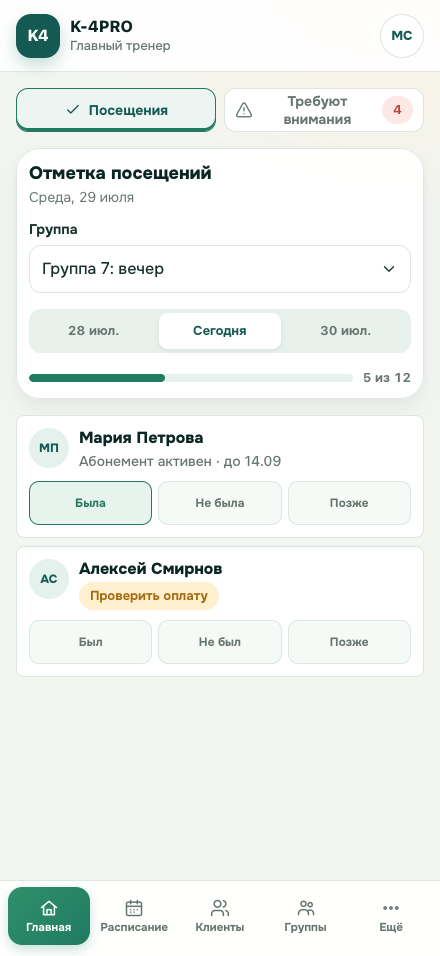
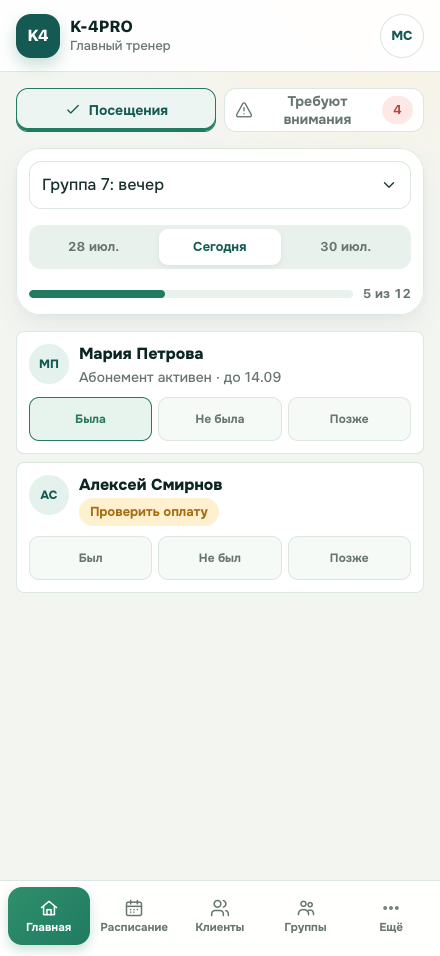
уточнение макетов

diff --git a/docs/ui-concept/task-090-iphone-17-pro-max/app.js b/docs/ui-concept/task-090-iphone-17-pro-max/app.js
@@ -152,11 +152,19 @@ function metric(label, value, hint = '') {
   return `<div class="metric"><div class="metric__label">${label}</div><div class="metric__value">${value}</div>${hint ? `<div class="metric__hint">${hint}</div>` : ''}</div>`
 }
 
-function field(label, value, { kind = 'input', description = '' } = {}) {
+function field(label, value, {
+  kind = 'input',
+  description = '',
+  visibleLabel = true,
+  accessibleLabel = label,
+} = {}) {
+  const accessibleAttributes = visibleLabel
+    ? ''
+    : ` role="${kind === 'select' ? 'combobox' : 'textbox'}" aria-label="${accessibleLabel}"${kind === 'select' ? ' aria-expanded="false"' : ''}`
   const shell = kind === 'textarea'
-    ? `<div class="text-area">${value}</div>`
-    : `<div class="${kind === 'select' ? 'select-shell' : kind === 'date' ? 'date-shell' : 'input-shell'}"><span class="${value ? 'input-shell__value' : 'field-placeholder'}">${value || 'Не выбрано'}</span>${kind === 'select' ? icon('down', 18) : ''}</div>`
-  return `<div class="field"><label>${label}</label>${shell}${description ? `<div class="field__description">${description}</div>` : ''}</div>`
+    ? `<div class="text-area"${accessibleAttributes}>${value}</div>`
+    : `<div class="${kind === 'select' ? 'select-shell' : kind === 'date' ? 'date-shell' : 'input-shell'}"${accessibleAttributes}><span class="${value ? 'input-shell__value' : 'field-placeholder'}">${value || 'Не выбрано'}</span>${kind === 'select' ? icon('down', 18) : ''}</div>`
+  return `<div class="field"><label class="${visibleLabel ? '' : 'sr-only'}">${visibleLabel ? label : accessibleLabel}</label>${shell}${description ? `<div class="field__description">${description}</div>` : ''}</div>`
 }
 
 function switchRow(label, meta, on = true) {
@@ -431,10 +439,9 @@ const scenes = {
     `<h1 class="sr-only">Главная</h1>
     <div class="tabs" data-geometry="page-header"><button class="tab tab--active" type="button">${icon('check', 18)}Посещения</button><button class="tab" type="button">${icon('warning', 18)}Требуют внимания ${badge('4', 'danger')}</button></div>
     ${section(`
-      ${sectionTitle('Отметка посещений', 'Среда, 29 июля')}
       <div class="form-grid">
-        ${field('Группа', 'Группа 7: вечер', { kind: 'select' })}
-        <div class="segmented"><span class="segmented__item">28 июл.</span><span class="segmented__item segmented__item--active">Сегодня</span><span class="segmented__item">30 июл.</span></div>
+        ${field('Группа', 'Группа 7: вечер', { kind: 'select', visibleLabel: false, accessibleLabel: 'Группа для отметки посещений' })}
+        <div aria-label="Дата тренировки" class="segmented" role="group"><span class="segmented__item">28 июл.</span><span class="segmented__item segmented__item--active">Сегодня</span><span class="segmented__item">30 июл.</span></div>
         <div class="progress"><div class="progress__track"><div class="progress__value" style="--progress:42%"></div></div><span class="progress__label">5 из 12</span></div>
       </div>
     `, { compact: true })}

diff --git a/.agents/skills/crm-mobile-first-ui/references/mobile-acceptance.md b/.agents/skills/crm-mobile-first-ui/references/mobile-acceptance.md
@@ -89,6 +89,17 @@ visual viewport.
 - Desktop `768/1440` does not restore a mobile-removed duplicate tab heading,
   summary card, or standalone range/status panel merely to use available
   space.
+- A primary filter/control is not preceded by a generic task heading or
+  decorative date/scope meta when the active tab plus the control's own label
+  and selected value already provide that context. Ordinary select/date/form
+  labels remain visible or otherwise explicitly associated.
+- A sole unambiguous workspace context selector may omit its visible generic
+  label only as a documented exception: it retains an operation-specific
+  accessible name independent of placeholder/value and has no adjacent
+  competing selector. Forms and multi-selector toolbars retain visible labels.
+- Desktop `768/1440` does not restore control-intro copy removed at mobile
+  widths; exceptions remain limited to validation, recovery, ambiguous scope,
+  prerequisites, or decision-changing constraints placed beside the control.
 - The Groups registry has no top summary/stat widgets at mobile, tablet, or
   desktop widths; locator/filter toolbar and results use the released space.
 - Detail/create/edit/auth screens and routes under a generic `More`

diff --git a/.agents/skills/crm-mobile-first-ui/SKILL.md b/.agents/skills/crm-mobile-first-ui/SKILL.md
@@ -108,6 +108,16 @@ Rules:
   already made obvious by that tab and its rows; start with the operational
   list/state on mobile and desktop, and retain a semantic accessible name
   without visible duplication;
+- do not place a generic section title, task instruction, or decorative
+  date/scope meta immediately before a primary filter/control when the active
+  tab, the control's persistent label, and its selected value already identify
+  the task and context; keep required field labels and move only genuinely
+  decision-changing help next to the affected control on mobile and desktop;
+- a sole unambiguous workspace context selector may visually hide its generic
+  label only when the active tab, selected value, and placement identify it,
+  no adjacent selector can be confused with it, and the control keeps a stable
+  operation-specific accessible name; restore the visible label if another
+  competing selector is introduced;
 - keep visible route titles for detail/create/edit/auth screens and routes
   whose active navigation is only a generic parent such as `More`; a recovery
   state with its own specific heading need not duplicate an active route name.

diff --git a/docs/ui-concept/README.md b/docs/ui-concept/README.md
@@ -74,6 +74,10 @@ Active navigation + semantic route title -> Summary/locator/filter -> Primary co
 - Active tab не повторяется ниже отдельной title/summary card: после
   `Требуют внимания` сразу начинается operational list/state на mobile и
   desktop.
+- Рабочий filter/control не получает generic intro перед собой, если active tab
+  и label/value control уже задают контекст: в `Посещения` карточка начинается
+  сразу с group select и date navigation на mobile и desktop; generic label
+  скрыт, accessible name `Группа для отметки посещений` сохранён.
 - Visible labels сохраняются у обычных form fields, нескольких неоднозначных
   inputs и period/date/scope controls.
 - Ролевые бейджи показывать только когда они реально объясняют доступ или сценарий.

diff --git a/docs/ui-concept/task-090-iphone-17-pro-max/README.md b/docs/ui-concept/task-090-iphone-17-pro-max/README.md
@@ -50,6 +50,10 @@ The rendered screenshots follow the cross-device explanatory-copy rule in
 - an active persistent tab is not repeated by a section/title/summary widget;
   `Требуют внимания` proceeds directly to its client list/state at every
   breakpoint;
+- primary filters do not receive generic control-intro copy when active tab,
+  field label and selected value already identify the task; attendance begins
+  directly with an accessible group selector and date navigation, without a
+  visible generic `Группа` label, on mobile and desktop;
 - required validation, recovery, constraint, security/legal and
   operational-state copy is placed next to the affected field/action/section.
 
